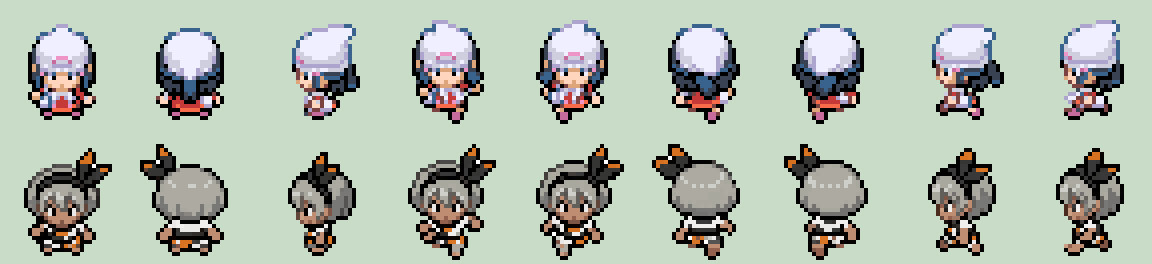
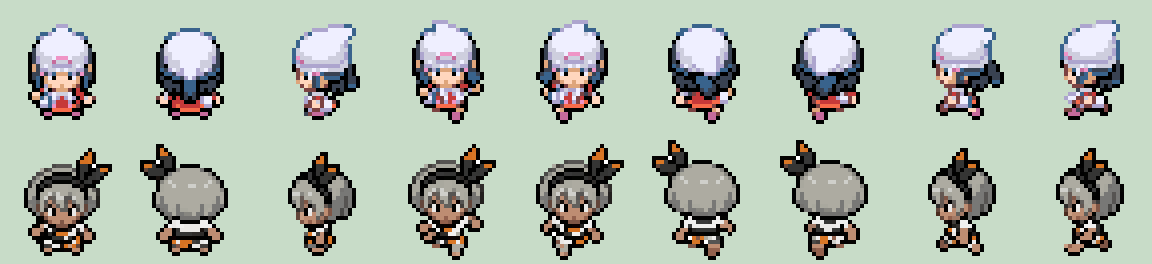
Add walking bob to gym-leader outfit field sprites
Walk frames now sit 1px above the standing frame with feet in place, like the
pt_m/pt_f base, and reuse the standing head so it moves as one piece
(bobfix.py). Fixes Bruno/Roxie walking without bob and Janine's hair staying still.

diff --git a/assets_src/leg_fit/ow/bobfix.py b/assets_src/leg_fit/ow/bobfix.py
@@ -1,0 +1,44 @@
+"""bobfix.py OW9_STRIP OUT_PREFIX [head_rows=19] [leg_row=26]
+Walking bob like the base pt_m/pt_f: in every walk frame (3,4 front; 5,6 back; 7,8 side)
+the body is 1px higher than the standing frame while the feet stay put.
+1. Measure how far the walk frame's head (rows < head_rows) sits from the standing head.
+2. Raise the whole walk frame so it sits 1px above the standing frame, then put back its
+   own rows >= leg_row so the feet stay on the ground (legs get 1px longer, as in the base).
+3. Rows < head_rows are the standing frame's head raised 1px, so the hair/head moves as one
+   piece instead of parts of it staying still.
+Writes OUT_PREFIX_ow9.png (288x32) and OUT_PREFIX_ow.png (32x192: 0,1,2,3,5,7)."""
+import sys
+from PIL import Image
+s = Image.open(sys.argv[1]).convert('RGBA'); out = sys.argv[2]
+HEAD = int(sys.argv[3]) if len(sys.argv) > 3 else 19
+LEG = int(sys.argv[4]) if len(sys.argv) > 4 else 26
+F = [s.crop((i * 32, 0, i * 32 + 32, 32)) for i in range(9)]
+
+def shift(im, dy):
+    o = Image.new('RGBA', (32, 32)); o.paste(im, (0, dy), im); return o
+
+def diff(a, b, y1):
+    pa, pb = a.load(), b.load(); n = 0
+    for y in range(y1):
+        for x in range(32):
+            if (pa[x, y][3] > 0) != (pb[x, y][3] > 0) or (pa[x, y][3] and pa[x, y][:3] != pb[x, y][:3]): n += 1
+    return n
+
+for st, ws in ((0, (3, 4)), (1, (5, 6)), (2, (7, 8))):
+    S = F[st]
+    for w in ws:
+        W = F[w]
+        dy = min((diff(shift(S, d), W, HEAD), d) for d in (-2, -1, 0, 1))[1]
+        R = shift(W, -1 - dy)
+        R.paste(Image.new('RGBA', (32, 32 - LEG)), (0, LEG))
+        R.alpha_composite(W.crop((0, LEG, 32, 32)), (0, LEG))
+        H = shift(S, -1).crop((0, 0, 32, HEAD))
+        R.paste(Image.new('RGBA', (32, HEAD)), (0, 0)); R.alpha_composite(H, (0, 0))
+        print(w, 'head was', dy, '-> -1')
+        F[w] = R
+o = Image.new('RGBA', (288, 32))
+for i, f in enumerate(F): o.alpha_composite(f, (i * 32, 0))
+o.save(out + '_ow9.png')
+v = Image.new('RGBA', (32, 192))
+for j, i in enumerate([0, 1, 2, 3, 5, 7]): v.alpha_composite(F[i], (0, j * 32))
+v.save(out + '_ow.png')

diff --git a/assets_src/leg_fit/ow/METHOD.md b/assets_src/leg_fit/ow/METHOD.md
@@ -18,3 +18,10 @@ direction (3 frames per run: front 0,3,4 / back 1,5,6 / side 2,7,8), and back wa
 
     python3 topost.py raw/lf_bruno_m_transfer.png ../../../gym/img/ow/pt_m.png OUT/lf_bruno_m
     python3 backfix.py OUT/lf_roxie_m_t_ow9.png OUT/lf_roxie_m 27
+
+Walking bob (2026-11-21, 경완 '걸을 때 위아래 까딱이는 느낌이 없네'): Transfer outfit did not
+always raise the body 1px in walk frames (Bruno, Roxie) and redrew parts of the head
+(Janine's hair). `bobfix.py` makes every walk frame 1px higher than its standing frame with the
+feet kept in place, and uses the standing frame's head (rows < 19) so the head moves as one piece:
+
+    python3 bobfix.py ../../../gym/img/fit/ow9/lf_bruno_m.png OUT/lf_bruno_m
